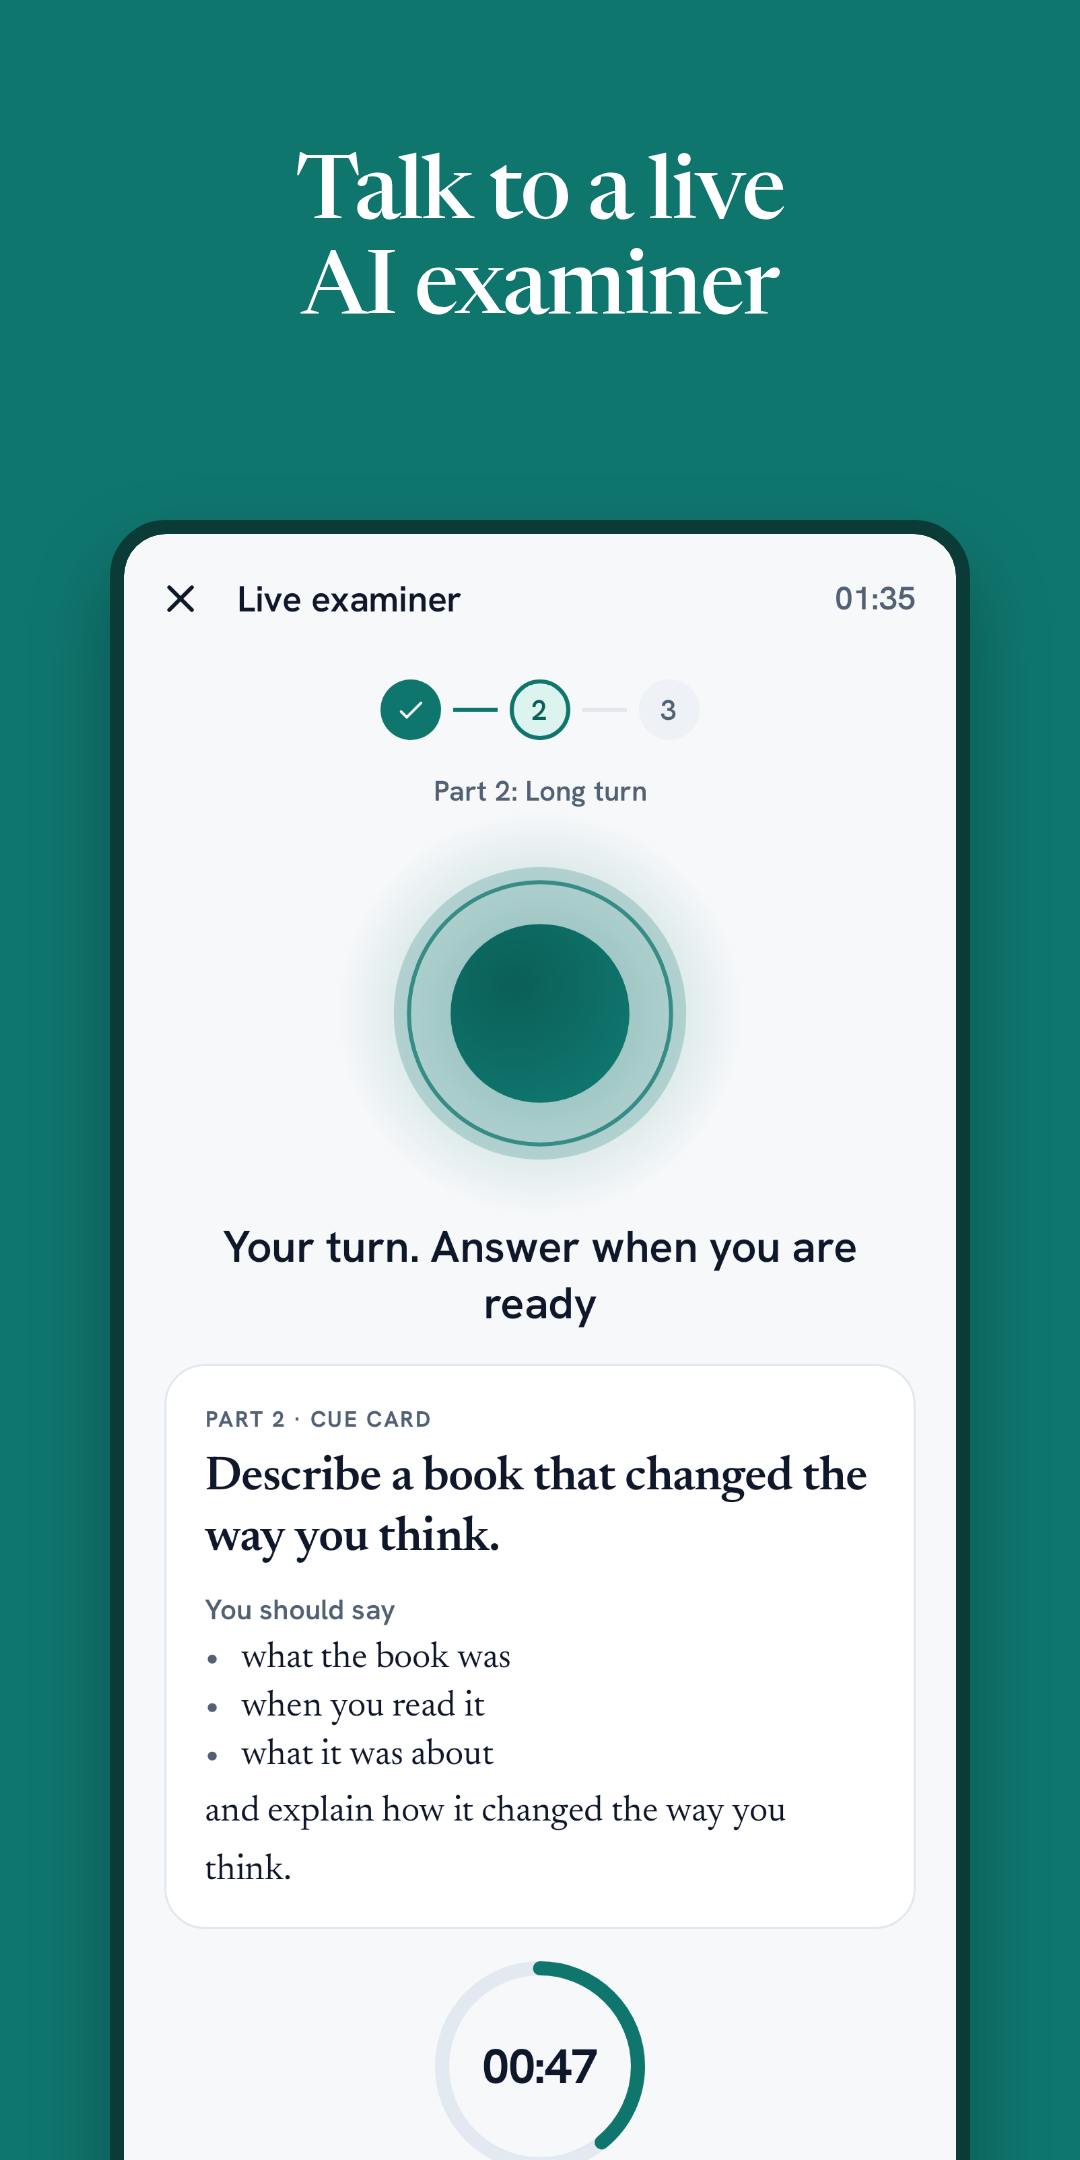
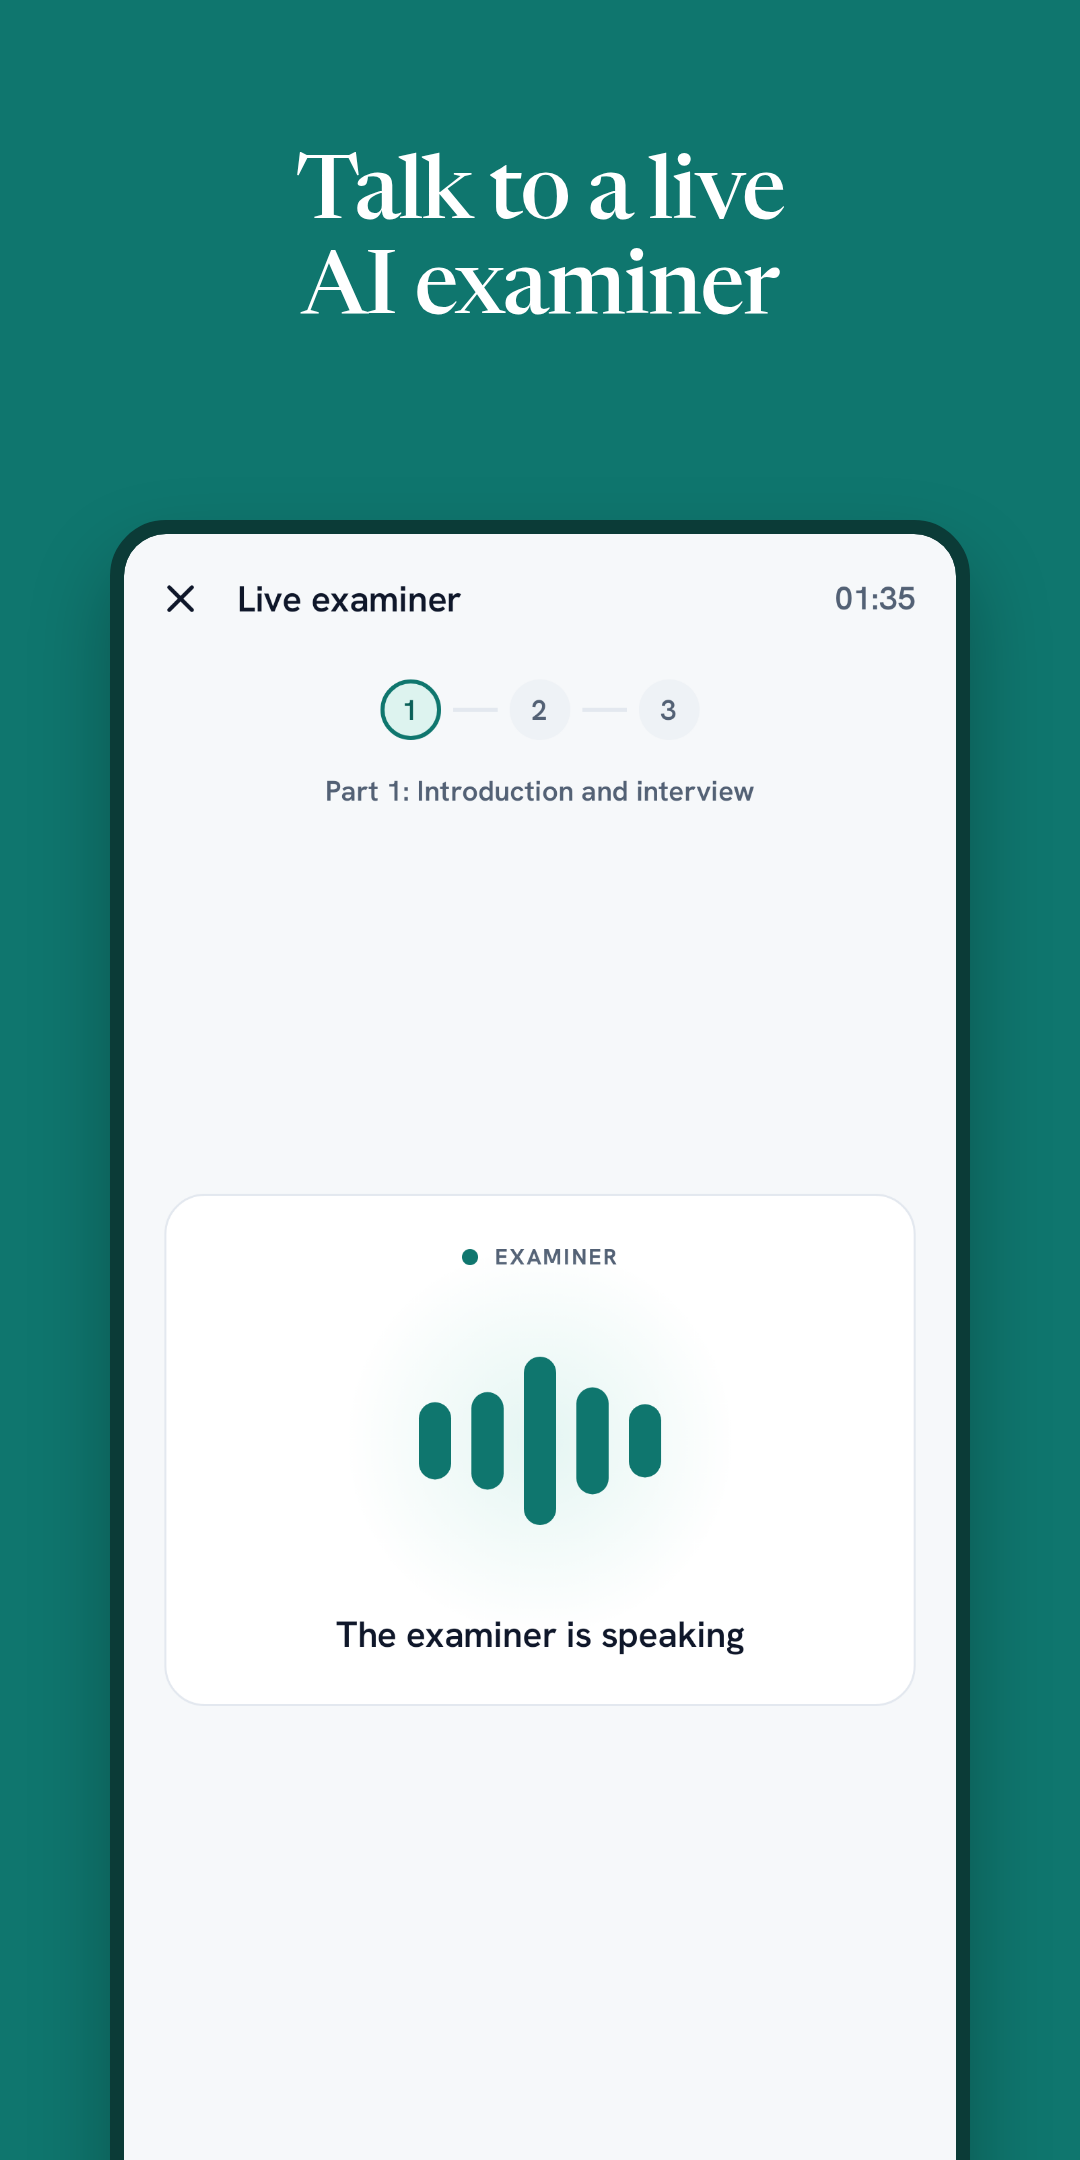
docs(play): store screenshot 3 shows the live examiner speaking (voice bars, centred card) instead of the talk screen

diff --git a/scripts/play-store-assets.py b/scripts/play-store-assets.py
@@ -9,7 +9,7 @@ FONTS='<link href="https://fonts.googleapis.com/css2?family=Hanken+Grotesk:wght@
 SHOTS=[
  ("light-result-writing-Overview","A band score for every criterion"),
  ("light-result-writing-Essay","Every mistake marked in your essay"),
- ("light-live-talk","Talk to a live AI examiner"),
+ ("light-live-intro","Talk to a live AI examiner"),
  ("light-result-speaking-Fluency","See your pace, pauses and fluency"),
  ("light-lr-listening-exam-Playing","Listening and Reading, timed like the exam"),
  ("light-lr-result-Overview","Find out why you lost each mark"),
